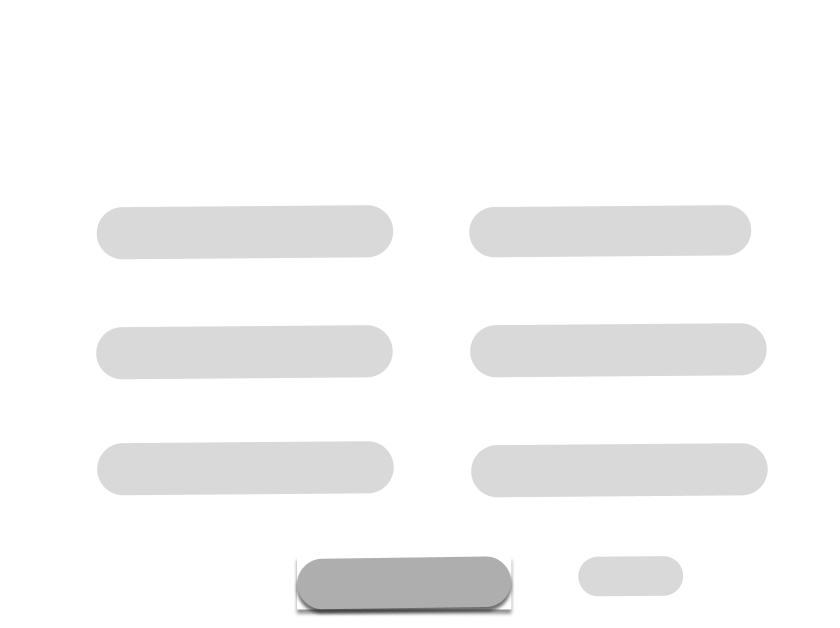
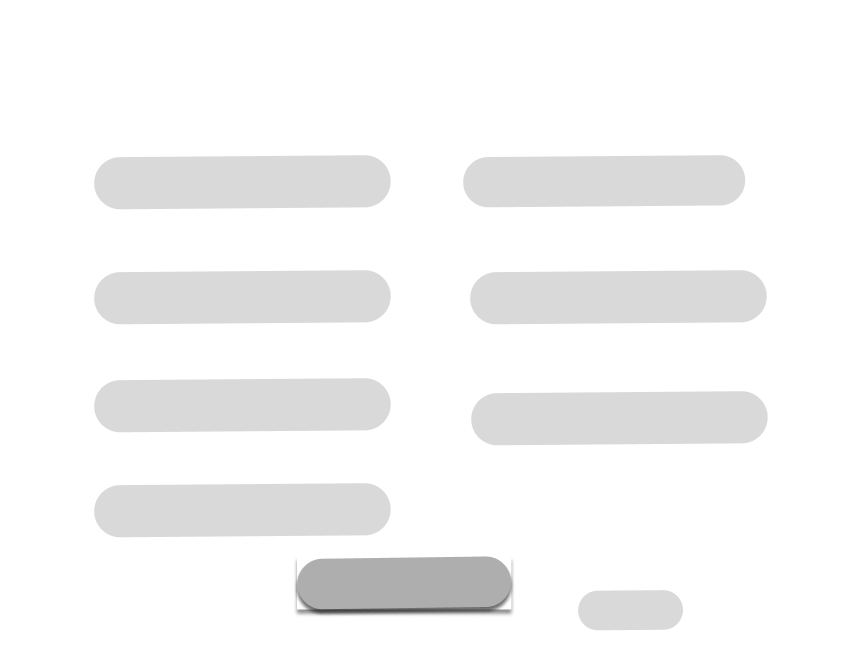
Worked on signup page

diff --git a/finalsignin.py b/finalsignin.py
@@ -8,6 +8,8 @@ root.config(bg="#4785CF")
 root.title("Sign Up Page")
 #signup widgets including labels entry fields and buttons
 
+create_label=Label(root,text="CREATE ACCOUNT",font=("Arial",23,"bold"),fg="blue")
+create_label.place(x=200,y=100)
 image=Image.open("tourMainBg.png")
 image_resize=image.resize((700,700))
 converted=ImageTk.PhotoImage(image_resize)
@@ -17,26 +19,32 @@ image1=PhotoImage(file="signup.png")
 label=Label(root,image=image1,bg="#4785CF",bd=0)
 label.place(x=30,y=100)
 def label1(text,x,y):
-    label=Label(root,text=text,font=29)
+    label=Label(root,text=text,font=75,bd=0,bg="white")
     label.place(x=x,y=y)
 
-label1("Name •",130,240)
-label1("Email •",130,240)
-label1("Contact No •",130,240)
-label1("Address •",130,240)
-label1("Password •",130,240)
-label1(" Confirm Password •",130,240)
+label1("Name •",150,220)
+label1("Email •",150,330)
+label1("Contact No •",150,440)
+label1("Address •",150,550)
+label1("Password •",520,220)
+label1(" Confirm Password •",520,445)
+label1("Password •",520,330)
+
+label_log=Label(root,text="Already have an account?",font=24,fg="blue")
+label_log.place(x=580,y=660)
 entrylist=[]
 def create_entry(x,y):
-    entry=Entry(root,width=24,bd=0)
-    entry.place(x=x,y=y,heigh=39)
+    entry=Entry(root,width=43,bd=0,bg="#D9D9D9")
+    entry.place(x=x,y=y,height=43)
     entrylist.append(entry)
-create_entry(110,272)
-create_entry(110,372)
-create_entry(110,470)
-create_entry(480,272)
-create_entry(480,372)
-create_entry(480,463)
+create_entry(135,262)
+create_entry(135,372)
+create_entry(135,482)
+create_entry(135,592)
+create_entry(510,262)
+create_entry(510,379)
+create_entry(510,497)
+
 def login():
     root.destroy()
     import finalsignin
@@ -47,11 +55,11 @@ def signup():
         messagebox.showinfo("Successfully signed up")
 buttons=[]
 def createbutton(text,x,y,cmd,font,bg):
-    button=Button(root,text=text,command=cmd,font=font,bg=bg)
+    button=Button(root,text=text,command=cmd,font=font,bg=bg,bd=0)
     button.place(x=x,y=y)
     buttons.append(button)
-createbutton("CREATE",358,557,signup,76,"blue")
-createbutton("Log in",475,620,login,12,"blue")
+createbutton("CREATE",365,660,signup,76,"#CDC0B0")
+createbutton("Log in",622,690,login,12,"#D9D9D9")
 
 
 
